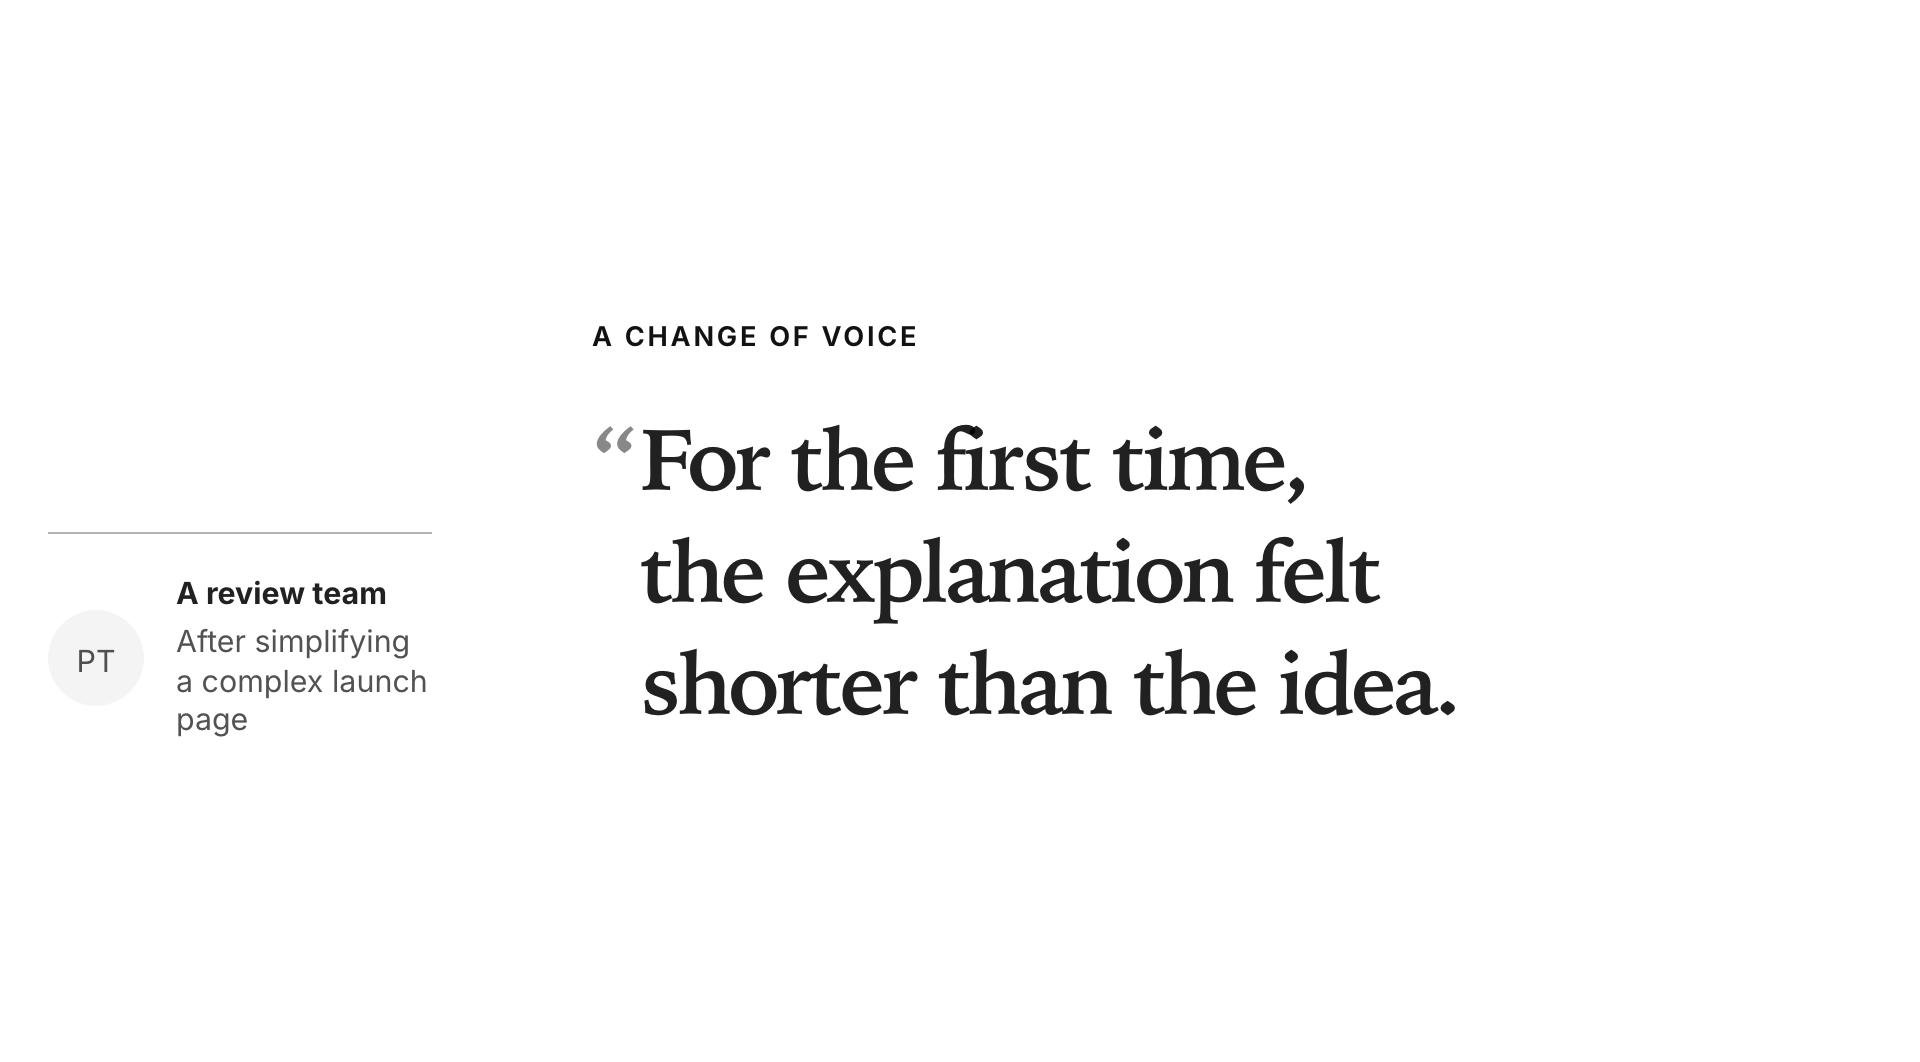
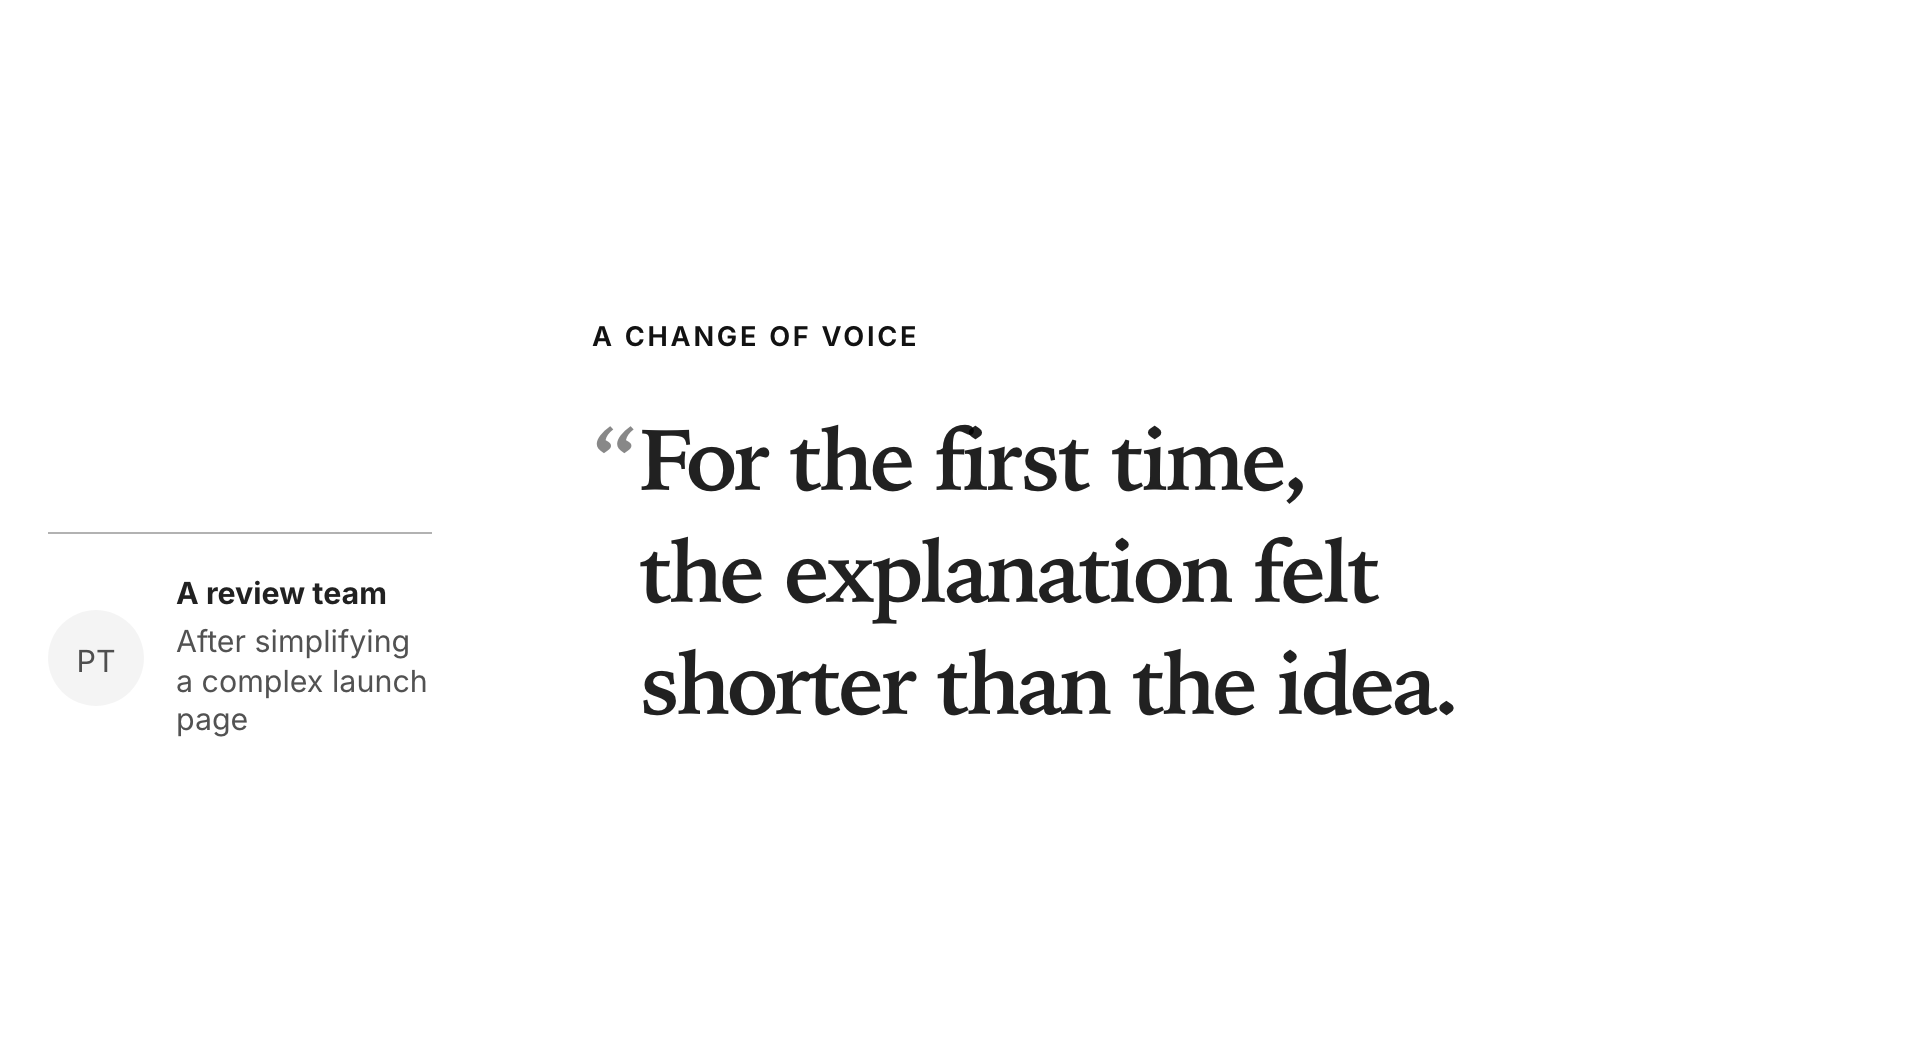
Keep quotation spacing on the shared density authority
Use half the existing spacing step for the opening mark. The population appearance guard and all quotation/figure layout checks pass, including rich content and enlarged text. Refresh the affected captures and restore baseline limits for final proposal measurement.

diff --git a/src/components/marketing/voice-break/voice-break.css b/src/components/marketing/voice-break/voice-break.css
@@ -65,7 +65,7 @@
     position: relative;
     display: grid;
     grid-template-columns: auto minmax(0, 1fr);
-    column-gap: 0.06em;
+    column-gap: calc(var(--discern-space-1) / 2);
     max-inline-size: 24ch;
     margin: 0;
     color: var(--discern-color-ink);
